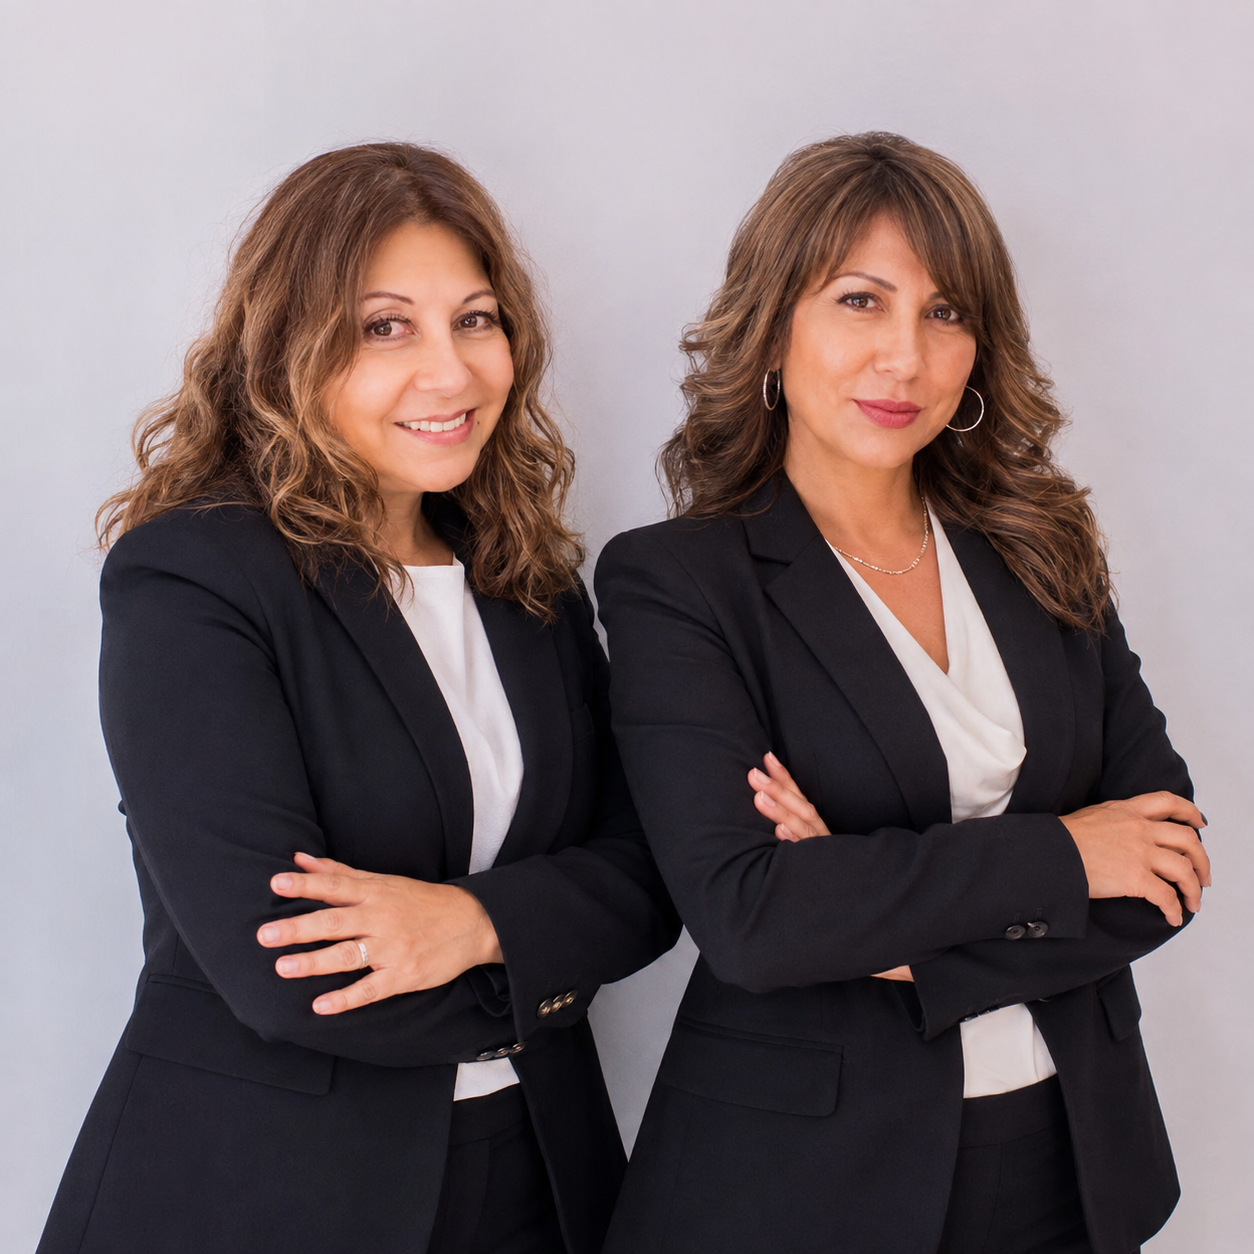
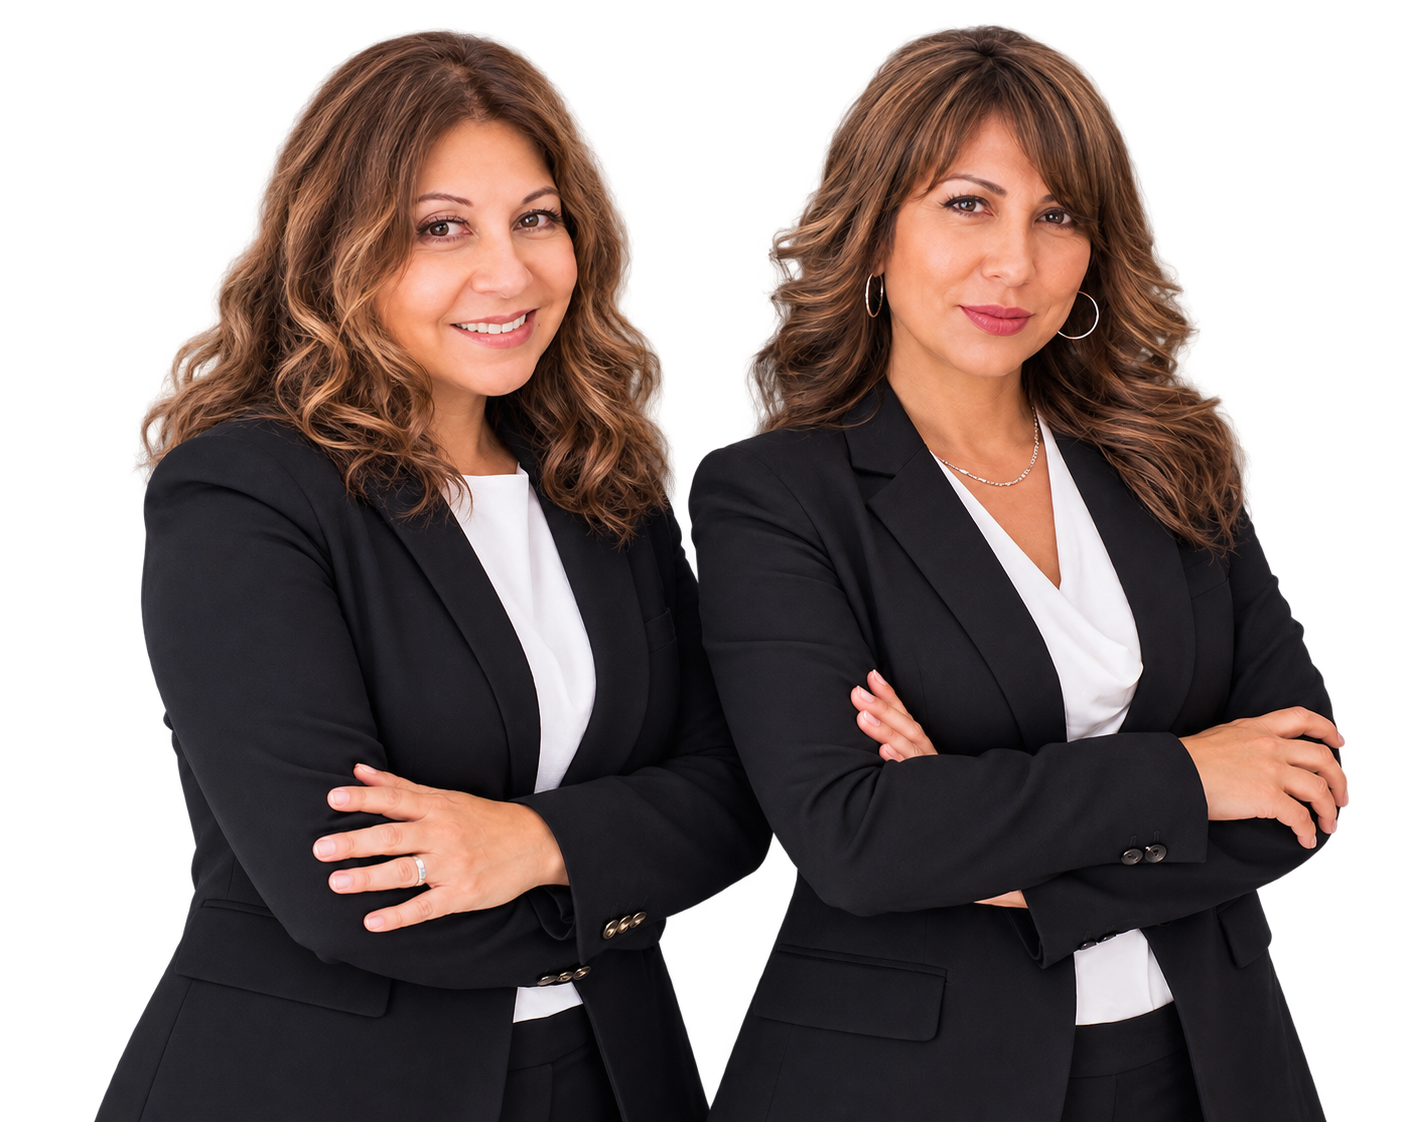
Foto fija en tarjetas del equipo al desplegar perfil

diff --git a/src/index.css b/src/index.css
@@ -184,9 +184,9 @@ body {
 .people-quote { padding-left: 35px; border-left: 2px solid hsl(var(--accent)); font: 500 clamp(24px, 3vw, 38px)/1.18 var(--app-font-serif); color: hsl(var(--primary)); }
 .people-quote em { color: hsl(var(--accent)); font-style: normal; }
 .people-copy { margin-top: 26px; color: hsl(var(--muted-foreground)); font-size: 14px; line-height: 1.7; }
-.attorney-grid { display: grid; grid-template-columns: 1fr 1fr; gap: 16px; }
+.attorney-grid { display: grid; grid-template-columns: 1fr 1fr; gap: 16px; align-items: start; }
 .attorney-card { position: relative; overflow: hidden; background: hsl(var(--background)); min-height: 330px; display: flex; flex-direction: column; }
-.attorney-photo { width: 100%; flex: 1; min-height: 0; object-fit: cover; filter: saturate(.85); }
+.attorney-photo { width: 100%; flex: 0 0 auto; aspect-ratio: 16 / 9; object-fit: cover; filter: saturate(.85); }
 .attorney-card-body { position: relative; z-index: 2; padding: 23px; border-top: 2px solid hsl(var(--accent)); }
 .attorney-monogram { position: absolute; top: 24px; right: 26px; color: hsl(var(--primary) / .14); font: 700 105px/.8 var(--app-font-serif); letter-spacing: -.1em; }
 .attorney-line { width: 36px; height: 2px; background: hsl(var(--accent)); margin-bottom: 15px; }
